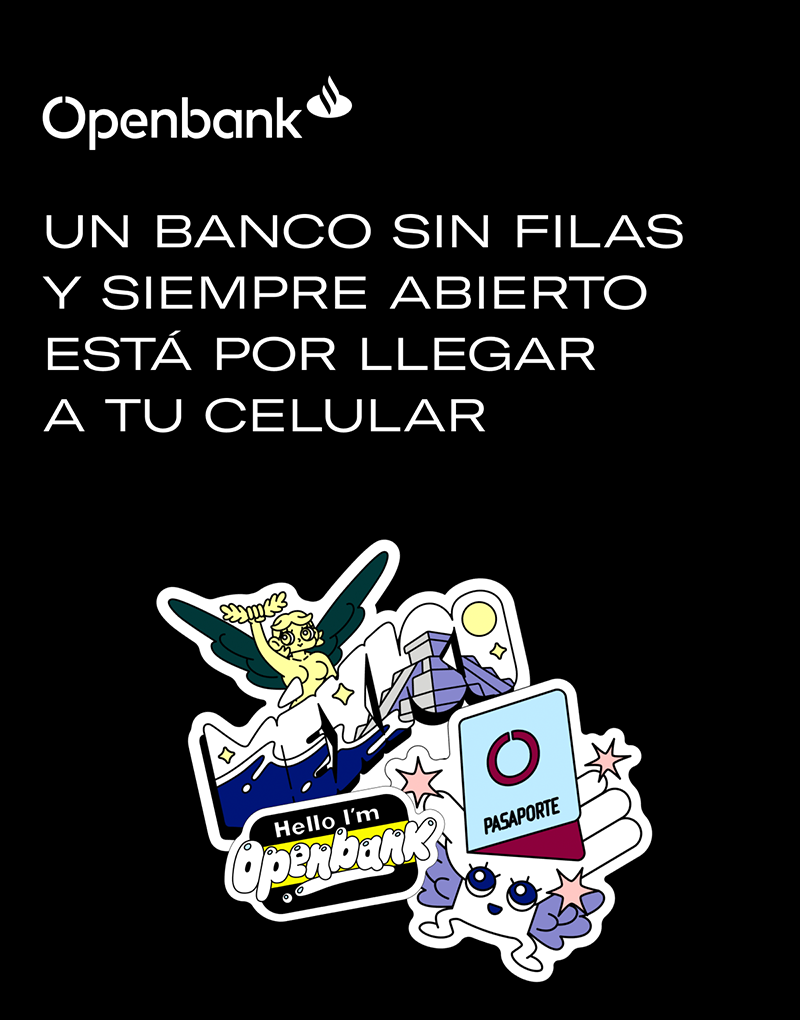
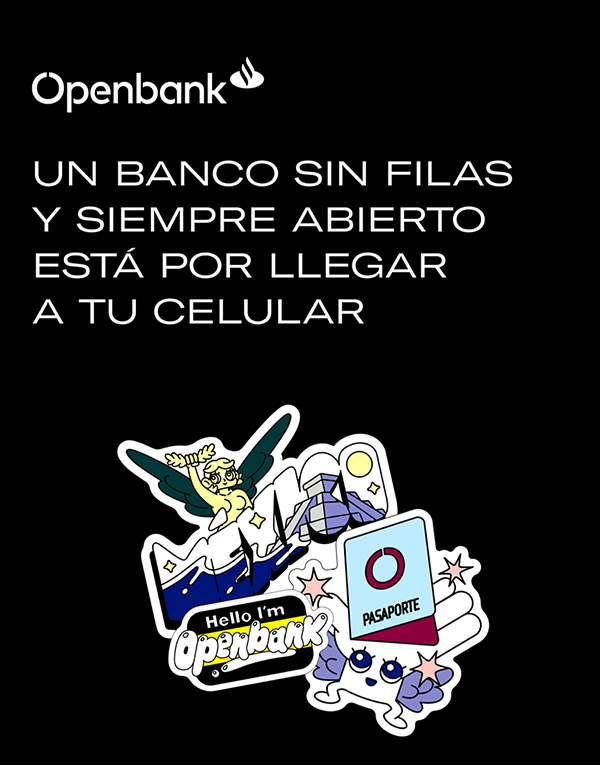
up

diff --git a/OB_MX_v1a.html b/OB_MX_v1a.html
@@ -486,22 +486,14 @@
   </div>
 
     <div style="max-width: 600px; margin: 0 auto;" class="boxShadow">
-        
-    <table border="0" cellpadding="0" cellspacing="0" width="100%" class="templateColumns" bgcolor="#111111" style="-webkit-text-size-adjust:100%;-ms-text-size-adjust:100%;mso-table-lspace:0pt;mso-table-rspace:0pt;mso-default-height:100%;mso-default-width:100%;mso-space-above:no;mso-space-below:no;margin:0;padding:0;width:100%;max-width:600px;border-collapse:collapse !important;border-spacing:0 !important;table-layout:fixed !important;padding:0 !important;margin: 0; padding: 0; max-width: 600px;">
-      <tbody>
-        <tr>
-          <td style="-webkit-text-size-adjust:100%;-ms-text-size-adjust:100%;mso-table-lspace:0pt;mso-table-rspace:0pt;mso-default-height:100%;mso-default-width:100%;mso-space-above:no;mso-space-below:no;padding: 0;">
-            <a target="_blank" href="#" style="-webkit-text-size-adjust:100%;-ms-text-size-adjust:100%;display: block;">
-              <img width="600" src="https://openbank-newsletter-q2k5.vercel.app/img/rrss/banner.png" alt="Ilustración" style="-ms-interpolation-mode:bicubic;display: block; width: 600px; height: auto;">
-            </a>
-          </td>
-        </tr>
-      </tbody>
-    </table>
-      
     <table border="0" cellpadding="0" cellspacing="0" width="100%" class="templateColumns darkmodeBackground"
     bgcolor="#ffffff"
     style="-webkit-text-size-adjust:100%;-ms-text-size-adjust:100%;mso-table-lspace:0pt;mso-table-rspace:0pt;mso-default-height:100%;mso-default-width:100%;mso-space-above:no;mso-space-below:no;margin:0;padding:0;width:100%;max-width:600px;border-collapse:collapse !important;border-spacing:0 !important;table-layout:fixed !important;padding:0 !important;margin: 0; padding: 0; max-width: 600px;">
+        <tr>
+            <td>
+                <img width="600px" src="https://openbank-newsletter-q2k5.vercel.app/img/rrss/banner.png" alt="Ilustración" style="-ms-interpolation-mode:bicubic;display: block; width: 600px;">
+            </td>
+        </tr>
         <tr>
           <td
             style="-webkit-text-size-adjust:100%;-ms-text-size-adjust:100%;mso-table-lspace:0pt;mso-table-rspace:0pt;mso-default-height:100%;mso-default-width:100%;mso-space-above:no;mso-space-below:no;">
